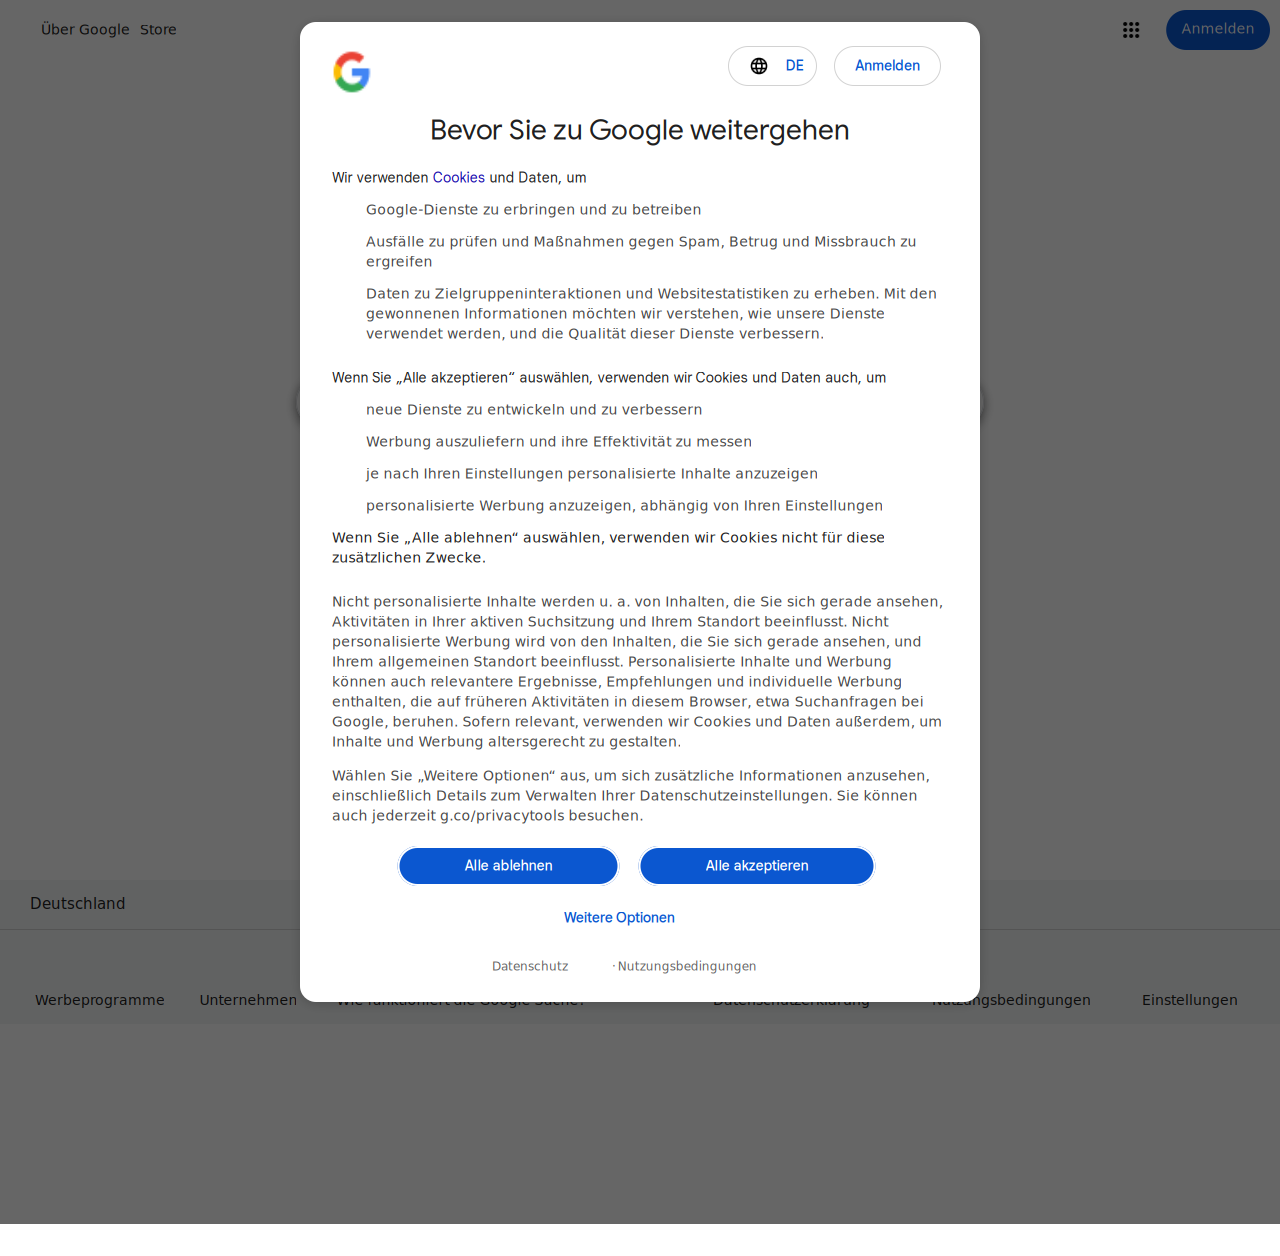
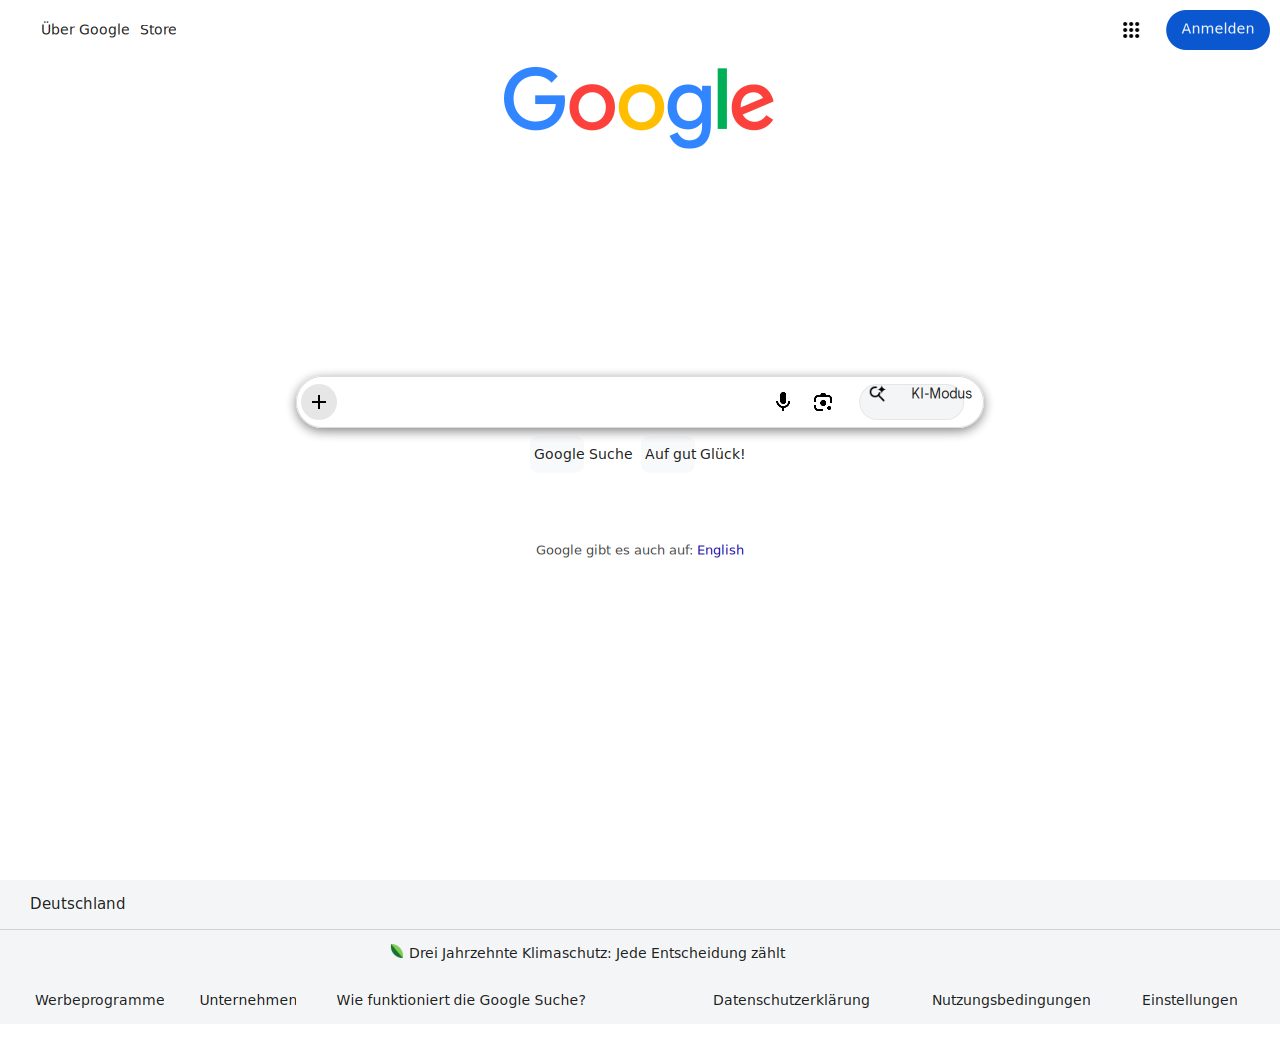
layout: center inline-block/atomic boxes under text-align so their geometry matches paint
An inline-level atomic (inline-block, replaced element) under a
text-align:center/right/justify block was painted at the aligned
position but its box coordinates stayed left-aligned: the inline
measurement layout set the Pango width but never the alignment, so the
index_to_pos offsets baked into the atomic subtree ignored text-align.
getBoundingClientRect and every hit-test walker then reported the
uncentered box, so clicks on centered modals (Google's cookie consent
is display:inline-block inside a text-align:center overlay) missed.
Apply the same alignment paint uses before baking atomic offsets, and
let the form-hit walker descend into inline_atomics like the other
walkers do, so inline-block <button>s are reachable.

Updates docs/screenshot.png to the real Google homepage (consent
accepted) now that the overlay's buttons are clickable.

diff --git a/src/layout.c b/src/layout.c
@@ -5468,6 +5468,25 @@ measure_inline_ascii_min_width(ns_box *box, const ns_style *parent_style)
 static void shift_box_tree(ns_box *b, double dx, double dy);
 
 static void
+inline_apply_text_align(PangoLayout *layout, const ns_style *s)
+{
+    const ns_css_value *ta = s ? s->values[NS_CSS_TEXT_ALIGN] : NULL;
+    gboolean rtl = pango_context_get_base_dir(
+        pango_layout_get_context(layout)) == PANGO_DIRECTION_RTL;
+    if (keyword_is(ta, "center"))
+        pango_layout_set_alignment(layout, PANGO_ALIGN_CENTER);
+    else if (keyword_is(ta, "right") ||
+             (keyword_is(ta, "end") && !rtl) ||
+             (keyword_is(ta, "start") && rtl) ||
+             (!ta && rtl))
+        pango_layout_set_alignment(layout, PANGO_ALIGN_RIGHT);
+    else if (keyword_is(ta, "justify"))
+        pango_layout_set_justify(layout, TRUE);
+    else
+        pango_layout_set_alignment(layout, PANGO_ALIGN_LEFT);
+}
+
+static void
 ns_vertical_measure(ns_box *box, const ns_style *ps,
                     double *thickness, double *length)
 {
@@ -5552,6 +5571,8 @@ inline_layout(ns_box *box, double content_width, const ns_style *parent_style)
     else
         pango_layout_set_width(layout, (int)(content_width * PANGO_SCALE));
     pango_layout_set_wrap(layout, ns_paint_wrap_mode_for(parent_style));
+    if (box->inline_atomics && box->inline_atomics->len > 0)
+        inline_apply_text_align(layout, parent_style);
     if (!(box->inline_atomics && box->inline_atomics->len > 0))
         ns_paint_apply_css_line_spacing(layout, parent_style);
     {
@@ -6193,6 +6214,14 @@ ns_form_hit_walk(const ns_box *box, double x, double y,
             if (m) best = m;
         }
     }
+    if (box->inline_atomics)
+        for (guint i = 0; i < box->inline_atomics->len; i++) {
+            const ns_box *ab =
+                g_array_index(box->inline_atomics, ns_inline_atomic, i).box;
+            if (!ab) continue;
+            const ns_node *m = ns_form_hit_walk(ab, cx, cy, child_inherited);
+            if (m) best = m;
+        }
     return best ? best : self_hit;
 }
 
